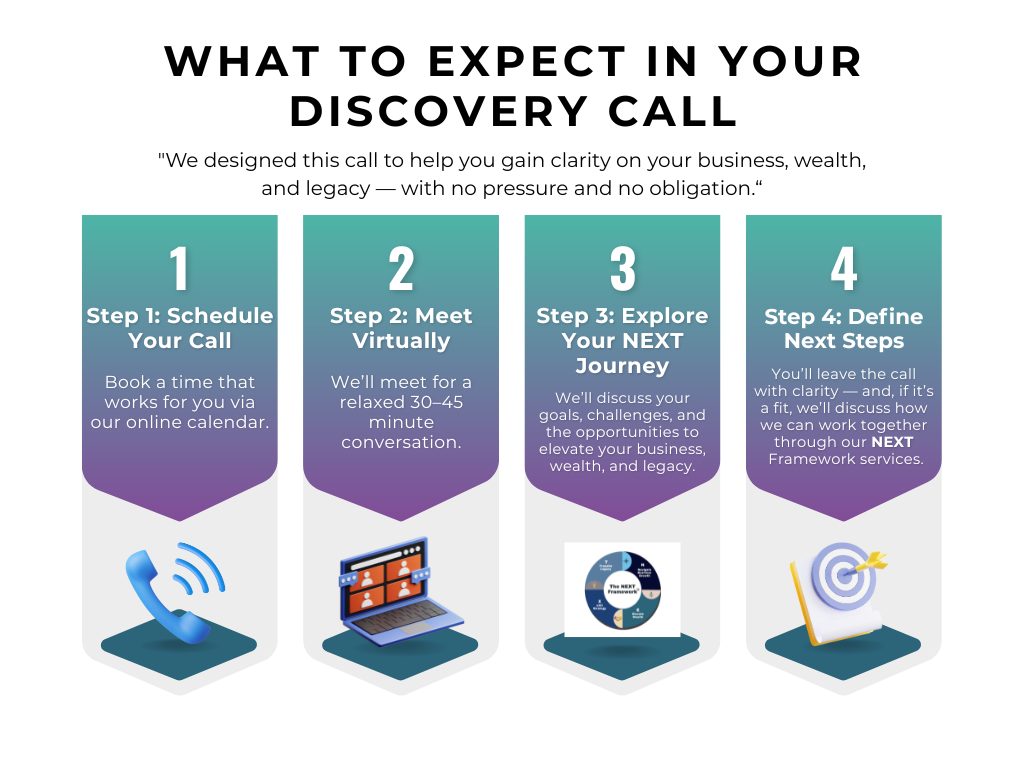
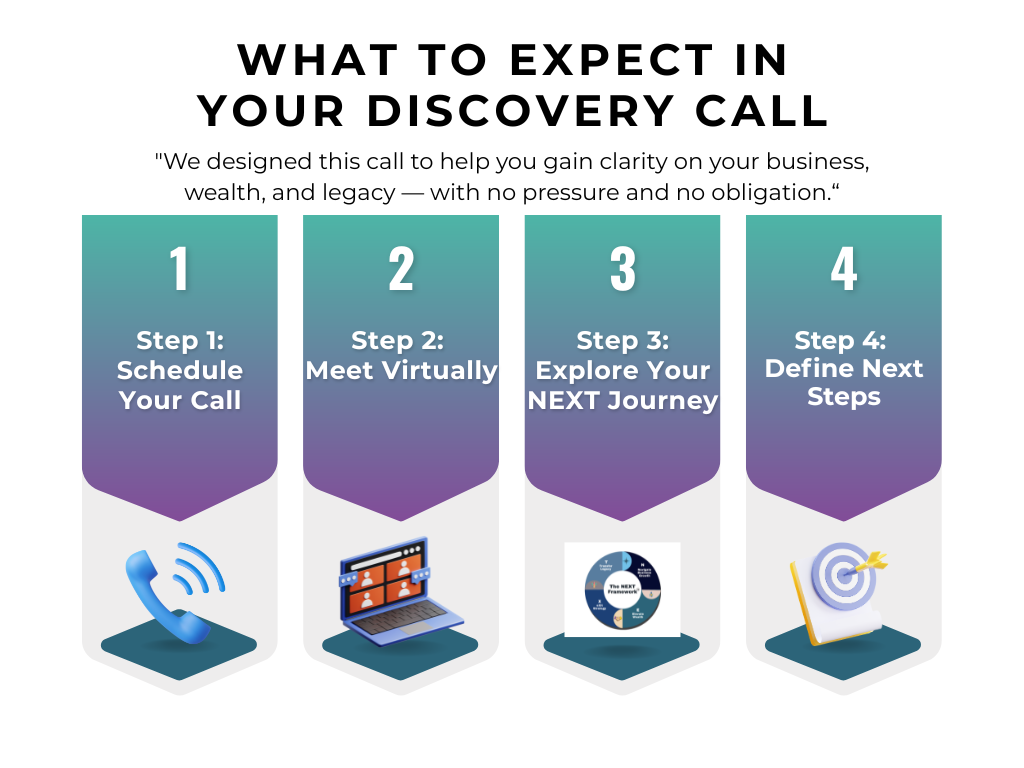
feat: update typography across multiple components for improved readability and visual consistency

diff --git a/client/src/pages/StartHere.tsx b/client/src/pages/StartHere.tsx
@@ -191,10 +191,10 @@ export default function StartHere() {
       <section className="relative bg-gradient-to-br from-[#141e5b] via-[#0A1245] to-[#141e5b] text-white py-24 mt-[136px]">
         <div className="absolute inset-0 bg-black/10"></div>
         <div className="relative max-w-7xl mx-auto px-4 sm:px-6 lg:px-8 text-center">
-          <h1 className="text-5xl md:text-7xl font-bold mb-6">
+          <h1 className="text-4xl md:text-5xl lg:text-6xl font-bold mb-6">
             START HERE
           </h1>
-          <h2 className="text-2xl md:text-3xl font-light mb-8 text-white/90">
+          <h2 className="text-xl md:text-2xl font-light mb-8 text-white/90">
             "Let's Explore What's NEXT for Your Business and Life"
           </h2>
           <p className="text-xl mb-12 text-white/80 max-w-3xl mx-auto">
@@ -221,7 +221,7 @@ export default function StartHere() {
       <section className="py-20 bg-white">
         <div className="max-w-7xl mx-auto px-4 sm:px-6 lg:px-8">
           <div className="text-center mb-16">
-            <h2 className="text-4xl md:text-5xl font-bold text-gray-900 mb-8">
+            <h2 className="text-3xl md:text-4xl font-bold text-gray-900 mb-8">
               Why Start With a NEXT Strategy Session?
             </h2>
             <p className="text-xl text-gray-600 max-w-4xl mx-auto leading-relaxed">
@@ -231,7 +231,7 @@ export default function StartHere() {
 
           <div className="grid grid-cols-1 md:grid-cols-2 gap-12 items-center mb-16">
             <div>
-              <h3 className="text-2xl font-bold text-gray-900 mb-6">In this call, we'll explore:</h3>
+              <h3 className="text-xl md:text-2xl font-bold text-gray-900 mb-6">In this call, we'll explore:</h3>
               <ul className="space-y-4">
                 <li className="flex items-start">
                   <div className="w-8 h-8 bg-[#141e5b] rounded-full flex items-center justify-center mr-4 flex-shrink-0 mt-1">
@@ -260,7 +260,7 @@ export default function StartHere() {
               </ul>
             </div>
             <div className="bg-gray-50 p-8 rounded-lg text-center">
-              <h4 className="text-xl font-bold text-gray-900 mb-4">No Pressure Promise</h4>
+              <h4 className="text-lg md:text-xl font-bold text-gray-900 mb-4">No Pressure Promise</h4>
               <p className="text-gray-600 mb-6">
                 No obligation. No hard sell. Just a meaningful conversation about your NEXT steps.
               </p>
@@ -286,7 +286,7 @@ export default function StartHere() {
       <section className="py-20 bg-gray-50">
         <div className="max-w-7xl mx-auto px-4 sm:px-6 lg:px-8">
           <div className="text-center mb-16">
-            <h2 className="text-4xl md:text-5xl font-bold text-gray-900 mb-8">
+            <h2 className="text-3xl md:text-4xl font-bold text-gray-900 mb-8">
               What to Expect in Your Discovery Call
             </h2>
           </div>
@@ -297,7 +297,7 @@ export default function StartHere() {
                 <div className="w-20 h-20 bg-[#141e5b] rounded-full flex items-center justify-center mx-auto mb-6">
                   <span className="text-white text-2xl font-bold">{step.step}</span>
                 </div>
-                <h3 className="text-xl font-bold text-gray-900 mb-4">{step.title}</h3>
+                <h3 className="text-lg md:text-xl font-bold text-gray-900 mb-4">{step.title}</h3>
                 <p className="text-gray-600">{step.description}</p>
                 {index < expectationSteps.length - 1 && (
                   <div className="hidden md:block absolute top-10 -right-4 w-8 h-0.5 bg-[#141e5b]"></div>
@@ -434,7 +434,7 @@ export default function StartHere() {
             {/* Contact Information */}
             <div>
               <div className="mb-8">
-                <h3 className="text-2xl font-bold text-gray-900 mb-6">Get in Touch</h3>
+                <h3 className="text-xl md:text-2xl font-bold text-gray-900 mb-6">Get in Touch</h3>
                 <div className="space-y-6">
                   <div className="flex items-start">
                     <div className="w-12 h-12 bg-[#141e5b] rounded-lg flex items-center justify-center mr-4 flex-shrink-0">
@@ -505,7 +505,7 @@ export default function StartHere() {
       <section className="py-20 bg-white">
         <div className="max-w-7xl mx-auto px-4 sm:px-6 lg:px-8">
           <div className="text-center mb-16">
-            <h2 className="text-4xl md:text-5xl font-bold text-gray-900 mb-8">
+            <h2 className="text-3xl md:text-4xl font-bold text-gray-900 mb-8">
               What Clients Are Saying
             </h2>
           </div>

diff --git a/client/src/components/About.tsx b/client/src/components/About.tsx
@@ -34,7 +34,7 @@ export default function About() {
     <section id="about" className="py-20 bg-gray-50">
       <div className="max-w-7xl mx-auto px-4 sm:px-6 lg:px-8">
         <div className="text-center mb-16">
-          <h2 className="text-4xl font-bold text-gray-900 mb-4">Meet Our Founder</h2>
+          <h2 className="text-3xl md:text-4xl font-bold text-gray-900 mb-4">Meet Our Founder</h2>
           <p className="text-xl text-gray-600 max-w-3xl mx-auto">
             Empowering Healthcare Entrepreneurs to Achieve Financial Freedom
           </p>
@@ -66,7 +66,7 @@ export default function About() {
             transition={{ duration: 0.6, delay: 0.3 }}
             viewport={{ once: true }}
           >
-            <h3 className="text-3xl font-bold text-gray-900 mb-4">John S. Smith Jr., RN, BSN</h3>
+            <h3 className="text-2xl md:text-3xl font-bold text-gray-900 mb-4">John S. Smith Jr., RN, BSN</h3>
             <p className="text-lg text-primary-blue mb-6 font-semibold">
               "I've walked this path myself — and I'm passionate about helping other healthcare entrepreneurs do the same."
             </p>
@@ -90,7 +90,7 @@ export default function About() {
 
         {/* Values Section */}
         <div className="mt-20">
-          <h3 className="text-3xl font-bold text-center text-gray-900 mb-12">Our Core Values</h3>
+          <h3 className="text-2xl md:text-3xl font-bold text-center text-gray-900 mb-12">Our Core Values</h3>
           
           {/* First Row - 3 items */}
           <div className="grid grid-cols-1 sm:grid-cols-2 lg:grid-cols-3 gap-6 mb-6 justify-items-center">
@@ -101,7 +101,7 @@ export default function About() {
                   <div className="w-16 h-16 bg-gradient-to-br from-[#141e5b] to-[#1a2b6b] rounded-full flex items-center justify-center mx-auto mb-4 group-hover:scale-110 transition-transform duration-300">
                     <IconComponent className="text-white text-2xl" />
                   </div>
-                  <h4 className="text-xl font-semibold text-gray-900 group-hover:text-[#141e5b] transition-colors duration-300 mb-2">{value.title}</h4>
+                  <h4 className="text-lg md:text-xl font-semibold text-gray-900 group-hover:text-[#141e5b] transition-colors duration-300 mb-2">{value.title}</h4>
                   <p className="text-gray-600 leading-relaxed">{value.description}</p>
                 </div>
               );
@@ -117,7 +117,7 @@ export default function About() {
                   <div className="w-16 h-16 bg-gradient-to-br from-[#141e5b] to-[#1a2b6b] rounded-full flex items-center justify-center mx-auto mb-4 group-hover:scale-110 transition-transform duration-300">
                     <IconComponent className="text-white text-2xl" />
                   </div>
-                  <h4 className="text-xl font-semibold text-gray-900 group-hover:text-[#141e5b] transition-colors duration-300 mb-2">{value.title}</h4>
+                  <h4 className="text-lg md:text-xl font-semibold text-gray-900 group-hover:text-[#141e5b] transition-colors duration-300 mb-2">{value.title}</h4>
                   <p className="text-gray-600 leading-relaxed">{value.description}</p>
                 </div>
               );

diff --git a/client/src/components/Resources.tsx b/client/src/components/Resources.tsx
@@ -9,7 +9,7 @@ export default function Resources() {
     <section id="resources" className="py-20 bg-gray-50">
       <div className="max-w-7xl mx-auto px-4 sm:px-6 lg:px-8">
         <div className="text-center mb-16">
-          <h2 className="text-4xl font-bold text-gray-900 mb-4">Resources</h2>
+          <h2 className="text-3xl md:text-4xl font-bold text-gray-900 mb-4">Resources</h2>
           <p className="text-xl text-gray-600 max-w-3xl mx-auto">
             Empowering Healthcare Entrepreneurs with the Tools to Grow, Prosper and Leave a Legacy
           </p>
@@ -21,7 +21,7 @@ export default function Resources() {
             <div className="w-20 h-20 bg-[#141e5b] rounded-full flex items-center justify-center mx-auto mb-6">
               <FaBookOpen className="text-white text-3xl" />
             </div>
-            <h3 className="text-2xl font-bold text-gray-900 mb-4">Books & Guides</h3>
+            <h3 className="text-xl md:text-2xl font-bold text-gray-900 mb-4">Books & Guides</h3>
             <p className="text-gray-600 mb-6">
               Comprehensive guides and resources to help you understand the fundamentals of healthcare business growth and wealth building.
             </p>
@@ -40,7 +40,7 @@ export default function Resources() {
             <div className="w-20 h-20 bg-[#141e5b] rounded-full flex items-center justify-center mx-auto mb-6">
               <FaToolbox className="text-white text-3xl" />
             </div>
-            <h3 className="text-2xl font-bold text-gray-900 mb-4">Success Kit</h3>
+            <h3 className="text-xl md:text-2xl font-bold text-gray-900 mb-4">Success Kit</h3>
             <p className="text-gray-600 mb-6">
               Essential tools, templates, and checklists to help you implement the NEXT Framework in your own healthcare business.
             </p>
@@ -54,7 +54,7 @@ export default function Resources() {
             <div className="w-20 h-20 bg-[#141e5b] rounded-full flex items-center justify-center mx-auto mb-6">
               <FaGraduationCap className="text-white text-3xl" />
             </div>
-            <h3 className="text-2xl font-bold text-gray-900 mb-4">Trainings & Workshops</h3>
+            <h3 className="text-xl md:text-2xl font-bold text-gray-900 mb-4">Trainings & Workshops</h3>
             <p className="text-gray-600 mb-6">
               Interactive training sessions and workshops designed specifically for healthcare entrepreneurs at every stage of growth.
             </p>

diff --git a/client/src/components/PathToFreedom.tsx b/client/src/components/PathToFreedom.tsx
@@ -82,7 +82,7 @@ export default function PathToFreedom() {
           transition={{ duration: 0.6 }}
           viewport={{ once: true }}
         >
-          <h2 className="text-4xl font-bold text-gray-900 mb-4">Your Path to Financial Freedom</h2>
+          <h2 className="text-3xl md:text-4xl font-bold text-gray-900 mb-4">Your Path to Financial Freedom</h2>
           <p className="text-xl text-gray-600 max-w-3xl mx-auto">
             Why Healthcare Entrepreneurs Need a Different Kind of Guidance
           </p>
@@ -96,7 +96,7 @@ export default function PathToFreedom() {
             transition={{ duration: 0.6, delay: 0.2 }}
             viewport={{ once: true }}
           >
-            <h3 className="text-2xl font-bold text-gray-900 mb-6">
+            <h3 className="text-xl md:text-2xl font-bold text-gray-900 mb-6">
               Building a healthcare business is hard. Building personal wealth while doing it is even harder.
             </h3>
             <p className="text-gray-700 mb-8 text-lg leading-relaxed max-w-4xl mx-auto">
@@ -169,7 +169,7 @@ export default function PathToFreedom() {
                     <div className="bg-gradient-to-br from-[#141e5b] to-[#1a2b6b] text-white rounded-full w-12 h-12 flex items-center justify-center font-bold mr-4 text-lg shadow-lg flex-shrink-0">
                       {challenge.number}
                     </div>
-                    <h4 className="text-xl font-semibold text-gray-900 leading-tight">{challenge.title}</h4>
+                    <h4 className="text-lg md:text-xl font-semibold text-gray-900 leading-tight">{challenge.title}</h4>
                   </div>
                   <motion.div
                     animate={{ rotate: expandedCards.has(index) ? 180 : 0 }}
@@ -235,7 +235,7 @@ export default function PathToFreedom() {
         >
           <div className="flex flex-col sm:flex-row items-center justify-center mb-4 sm:mb-4">
             <FaCheckCircle className="text-green-400 text-2xl sm:text-3xl mb-2 sm:mb-0 sm:mr-3" />
-            <h3 className="text-2xl sm:text-3xl font-bold px-2">There Is a Better Way</h3>
+            <h3 className="text-xl md:text-2xl font-bold px-2">There Is a Better Way</h3>
           </div>
           <p className="text-lg sm:text-xl mb-6 sm:mb-8 opacity-90 max-w-3xl mx-auto leading-relaxed px-2">
             At Your Lifestyle Navigator™, we understand these challenges because we've faced them ourselves. 

diff --git a/client/src/components/Contact.tsx b/client/src/components/Contact.tsx
@@ -139,7 +139,7 @@ export default function Contact() {
     <section id="contact" className="py-20 bg-white">
       <div className="max-w-7xl mx-auto px-4 sm:px-6 lg:px-8">
         <div className="text-center mb-16">
-          <h2 className="text-4xl font-bold text-gray-900 mb-4">Start Here</h2>
+          <h2 className="text-3xl md:text-4xl font-bold text-gray-900 mb-4">Start Here</h2>
           <p className="text-xl text-gray-600 max-w-3xl mx-auto">
             Ready to navigate what's NEXT for your healthcare business and financial future? 
             Schedule your complimentary Discovery Call today.
@@ -149,7 +149,7 @@ export default function Contact() {
         <div className="grid grid-cols-1 lg:grid-cols-2 gap-12">
           {/* Contact Form */}
           <div className="bg-white p-8 rounded-lg shadow-sm">
-            <h3 className="text-2xl font-bold text-gray-900 mb-6">Schedule Your Discovery Call</h3>
+            <h3 className="text-xl md:text-2xl font-bold text-gray-900 mb-6">Schedule Your Discovery Call</h3>
             <form onSubmit={handleSubmit} className="space-y-6">
               <div className="grid grid-cols-1 md:grid-cols-2 gap-6">
                 <div>
@@ -252,7 +252,7 @@ export default function Contact() {
           {/* Contact Information */}
           <div>
             <div className="mb-8">
-              <h3 className="text-2xl font-bold text-gray-900 mb-6">Get in Touch</h3>
+              <h3 className="text-xl md:text-2xl font-bold text-gray-900 mb-6">Get in Touch</h3>
               <div className="space-y-6">
                 <div className="flex items-start">
                   <div className="w-12 h-12 bg-[#141e5b] rounded-lg flex items-center justify-center mr-4 flex-shrink-0">
@@ -290,7 +290,7 @@ export default function Contact() {
 
             {/* What to Expect */}
             <div className="bg-white p-6 rounded-lg shadow-sm">
-              <h4 className="text-lg font-bold text-gray-900 mb-4">What to Expect from Your Discovery Call:</h4>
+              <h4 className="text-lg md:text-xl font-bold text-gray-900 mb-4">What to Expect from Your Discovery Call:</h4>
               <ul className="space-y-3 text-gray-700">
                 <li className="flex items-start">
                   <FaCheck className="text-[#141e5b] mt-1 mr-3 flex-shrink-0" />

diff --git a/client/src/pages/Books.tsx b/client/src/pages/Books.tsx
@@ -101,7 +101,7 @@ export default function Books() {
               Back to Home
             </Button>
             <div className="text-center">
-              <h1 className="text-4xl sm:text-5xl font-bold mb-6">
+              <h1 className="text-4xl md:text-5xl lg:text-6xl font-bold mb-6">
                 Books & Guides
               </h1>
               <p className="text-xl text-white/90 max-w-3xl mx-auto">
@@ -132,7 +132,7 @@ export default function Books() {
                     {/* Book Details */}
                     <div className="lg:col-span-2 space-y-6">
                       <div>
-                        <h2 className="text-3xl font-bold text-gray-900 mb-2">{book.title}</h2>
+                        <h2 className="text-2xl md:text-3xl font-bold text-gray-900 mb-2">{book.title}</h2>
                         <p className="text-lg text-gray-600 flex items-center">
                           <FaUser className="mr-2" />
                           by {book.author}
@@ -167,7 +167,7 @@ export default function Books() {
 
                       {/* Features */}
                       <div>
-                        <h3 className="text-lg font-semibold text-gray-900 mb-3">What you'll learn:</h3>
+                        <h3 className="text-lg md:text-xl font-semibold text-gray-900 mb-3">What you'll learn:</h3>
                         <ul className="space-y-2">
                           {book.features.map((feature, index) => (
                             <li key={index} className="flex items-start text-gray-700">
@@ -202,7 +202,7 @@ export default function Books() {
         {/* CTA Section */}
         <section className="bg-[#141e5b] py-16">
           <div className="max-w-4xl mx-auto px-4 sm:px-6 lg:px-8 text-center">
-            <h2 className="text-3xl font-bold text-white mb-4">
+            <h2 className="text-2xl md:text-3xl font-bold text-white mb-4">
               Ready to Implement What You've Learned?
             </h2>
             <p className="text-xl text-white/90 mb-8">

diff --git a/client/src/components/ClientSuccessPath.tsx b/client/src/components/ClientSuccessPath.tsx
@@ -69,7 +69,7 @@ export default function ClientSuccessPath() {
     <section id="client-success" className="py-20 bg-gray-50">
       <div className="max-w-7xl mx-auto px-4 sm:px-6 lg:px-8">
         <div className="text-center mb-12">
-          <h2 className="text-4xl font-bold text-gray-900 mb-4">Client Success Path</h2>
+          <h2 className="text-3xl md:text-4xl font-bold text-gray-900 mb-4">Client Success Path</h2>
           <p className="text-xl text-gray-600 max-w-3xl mx-auto">
             How We Work with You: A Clear, Transparent Process
           </p>
@@ -87,7 +87,7 @@ export default function ClientSuccessPath() {
                   <div className={`inline-flex items-center justify-center w-12 h-12 bg-[#141e5b] text-white rounded-full text-lg font-bold mb-3 ${index % 2 === 0 ? 'lg:ml-auto' : 'lg:mr-auto'}`}>
                     {step.number}
                   </div>
-                  <h3 className="text-xl font-bold text-gray-900 mb-3">{step.title}</h3>
+                  <h3 className="text-lg md:text-xl font-bold text-gray-900 mb-3">{step.title}</h3>
                   <p className="text-gray-700 text-sm">{step.description}</p>
                 </div>
                 <div className={`lg:w-1/2 ${index % 2 === 0 ? 'lg:pl-4' : 'lg:pr-4'}`}>
@@ -129,7 +129,7 @@ export default function ClientSuccessPath() {
 
         {/* CTA */}
         <div className="text-center mt-12">
-          <h3 className="text-2xl font-bold text-gray-900 mb-4">Ready to Begin Your Journey?</h3>
+          <h3 className="text-xl md:text-2xl font-bold text-gray-900 mb-4">Ready to Begin Your Journey?</h3>
           <p className="text-lg text-gray-600 mb-6">
             Let's map what's NEXT for your business and your life.
           </p>

diff --git a/client/src/pages/FAQ.tsx b/client/src/pages/FAQ.tsx
@@ -124,7 +124,7 @@ export default function FAQ() {
         {/* Hero Section */}
         <section className="bg-[#141e5b] text-white py-16">
           <div className="max-w-7xl mx-auto px-4 sm:px-6 lg:px-8 text-center">
-            <h1 className="text-4xl sm:text-5xl font-bold mb-6">
+            <h1 className="text-4xl md:text-5xl lg:text-6xl font-bold mb-6">
               Frequently Asked Questions
             </h1>
             <p className="text-xl text-white/90 max-w-3xl mx-auto mb-8">
@@ -144,7 +144,7 @@ export default function FAQ() {
           <div className="max-w-4xl mx-auto px-4 sm:px-6 lg:px-8">
             {faqs.map((category, categoryIndex) => (
               <div key={categoryIndex} className="mb-12">
-                <h2 className="text-2xl font-bold text-gray-900 mb-8 border-b border-gray-200 pb-4 flex items-center">
+                <h2 className="text-xl md:text-2xl font-bold text-gray-900 mb-8 border-b border-gray-200 pb-4 flex items-center">
                   <FaQuestionCircle className="text-[#141e5b] mr-3" />
                   {category.category}
                 </h2>
@@ -178,7 +178,7 @@ export default function FAQ() {
         {/* CTA Section */}
         <section className="bg-[#141e5b] py-16">
           <div className="max-w-4xl mx-auto px-4 sm:px-6 lg:px-8 text-center">
-            <h2 className="text-3xl font-bold text-white mb-4">
+            <h2 className="text-2xl md:text-3xl font-bold text-white mb-4">
               Ready to Start Your Journey to Financial Freedom?
             </h2>
             <p className="text-xl text-white/90 mb-8">

diff --git a/client/src/components/WhoWeServe.tsx b/client/src/components/WhoWeServe.tsx
@@ -25,7 +25,7 @@ export default function WhoWeServe() {
     <section id="who-we-serve" className="py-20 bg-gradient-to-br from-gray-100 to-gray-50">
       <div className="max-w-7xl mx-auto px-4 sm:px-6 lg:px-8">
         <div className="text-center">
-          <h3 className="text-3xl font-bold text-gray-900 mb-4">Who We Serve</h3>
+          <h3 className="text-2xl md:text-3xl font-bold text-gray-900 mb-4">Who We Serve</h3>
           <p className="text-lg text-gray-600 mb-8 max-w-2xl mx-auto">
             We specialize in working with healthcare and behavioral health entrepreneurs at every stage of their journey.
           </p>
@@ -63,7 +63,7 @@ export default function WhoWeServe() {
 
         {/* Call to Action */}
         <div className="mt-16 text-center bg-white rounded-2xl p-6 sm:p-8 shadow-md border border-gray-100">
-          <h4 className="text-xl sm:text-2xl font-bold text-gray-900 mb-3 sm:mb-4 px-2">
+          <h4 className="text-lg md:text-xl font-bold text-gray-900 mb-3 sm:mb-4 px-2">
             Ready to Navigate What's NEXT for Your Healthcare Business?
           </h4>
           <p className="text-base sm:text-lg text-gray-600 mb-6 sm:mb-8 max-w-3xl mx-auto px-2 leading-relaxed">

diff --git a/client/src/components/NextFramework.tsx b/client/src/components/NextFramework.tsx
@@ -70,7 +70,7 @@ export default function NextFramework() {
                 <div className="w-12 h-12 sm:w-16 sm:h-16 bg-[#141e5b] rounded-full flex items-center justify-center mx-auto mb-4">
                   <IconComponent className="text-white text-lg sm:text-2xl" />
                 </div>
-                <h4 className="text-lg sm:text-xl font-semibold text-gray-900 mb-2">{item.title}</h4>
+                <h4 className="text-lg md:text-xl font-semibold text-gray-900 mb-2">{item.title}</h4>
                 <p className="text-sm sm:text-base text-gray-600">{item.description}</p>
               </div>
             );
@@ -79,7 +79,7 @@ export default function NextFramework() {
 
         {/* CTA */}
         <div className="text-center">
-          <h3 className="text-xl sm:text-2xl font-bold text-gray-900 mb-4">Ready to Plan What's NEXT?</h3>
+          <h3 className="text-xl md:text-2xl font-bold text-gray-900 mb-4">Ready to Plan What's NEXT?</h3>
           <p className="text-base sm:text-lg text-gray-600 mb-6">
             Schedule your complimentary NEXT Strategy Session today, and let's chart your path to business growth, wealth, and legacy.
           </p>

diff --git a/client/src/components/Services.tsx b/client/src/components/Services.tsx
@@ -80,7 +80,7 @@ export default function Services() {
     <section id="services" className="py-20 bg-gradient-to-br from-[#141e5b]/8 via-[#141e5b]/4 to-white">
       <div className="max-w-7xl mx-auto px-4 sm:px-6 lg:px-8">
         <div className="text-center mb-16">
-          <h2 className="text-4xl font-bold text-gray-900 mb-4">Our Services</h2>
+          <h2 className="text-3xl md:text-4xl font-bold text-gray-900 mb-4">Our Services</h2>
           <p className="text-xl text-gray-600 max-w-3xl mx-auto mb-8">
             How We Help You Navigate Business Growth, Build Wealth, and Leave a Legacy
           </p>

diff --git a/client/src/components/Footer.tsx b/client/src/components/Footer.tsx
@@ -39,7 +39,7 @@ export default function Footer() {
       <div className="max-w-7xl mx-auto px-4 sm:px-6 lg:px-8">
         <div className="grid grid-cols-1 md:grid-cols-4 gap-8">
           <div className="col-span-1 md:col-span-2">
-            <h3 className="text-2xl font-bold mb-4">Your Lifestyle Navigator™</h3>
+            <h3 className="text-xl md:text-2xl font-bold mb-4">Your Lifestyle Navigator™</h3>
             {/* Logo Image */ }
             <img
               src={logo}
